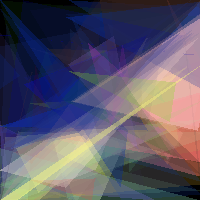
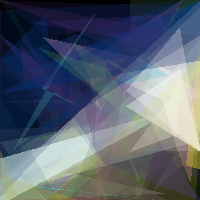
tested

diff --git a/evoart.py b/evoart.py
@@ -9,21 +9,27 @@ import random
 
 import matplotlib
 import matplotlib.pyplot as plt
+
+"""
+REMOVE MATPLOT
+"""
+
 matplotlib.use('TkAgg')
 import numpy as np
 
-
 import evol
 from PIL import ImageChops
-from PIL import Image, ImageDraw
-from evol import Population, Evolution
-
+from PIL import Image,ImageDraw
+from evol import Population,Evolution
 
 SIDES = 3
-POLYGON_COUNT = 200
-INIT_SIGMA = 125
-DECAY_RATE = 0.05
+POLYGON_COUNT = 100
+INIT_SIGMA = 120
+DECAY_RATE = 0.1
 CURRENT_GEN = 0
+
+# 796 sigma 10 decay 0.1 100 poly
+# 805 120 sigma decay 0.1
 
 MAX = 255 * 200 * 200
 TARGET = Image.open("6b.png")
@@ -32,43 +38,44 @@ TARGET.load()  # read image and close the file
 
 def evaluate(solution):
     image = draw(solution)
-    diff = ImageChops.difference(image, TARGET)
+    diff = ImageChops.difference(image,TARGET)
     hist = diff.convert("L").histogram()
-    count = sum(i * n for i, n in enumerate(hist))
+    count = sum(i * n for i,n in enumerate(hist))
     return (MAX - count) / MAX
 
-def make_polygon():
 
-  r = random.randrange(0,256)
-  g = random.randrange(0,256)
-  b = random.randrange(0,256)
-  a = random.randrange(30,60)
+def make_polygon(SIDES):
+    r = random.randrange(0,256)
+    g = random.randrange(0,256)
+    b = random.randrange(0,256)
+    a = random.randrange(30,60)
 
+    coords = [(random.randrange(11,189),random.randrange(11,189)) for _ in range(SIDES)]
 
-  coords = [(random.randrange(11,189),random.randrange(11,189)) for _ in range (SIDES)]
-
-
-  return[(r,g,b,a)]+ coords
-  #return[(r,g,b,a),(x1,y1), (x2,y2), (x3,y3),(x4,y4) ]
-
+    return [(r,g,b,a)] + coords
+    # return[(r,g,b,a),(x1,y1), (x2,y2), (x3,y3),(x4,y4) ]
 
 
 def initialise():
-  return [make_polygon() for i in range(POLYGON_COUNT)]
+    return [make_polygon(SIDES) for i in range(POLYGON_COUNT)]
 
 
-
-
-def evolve(population, args, cxp=0.5, mutp=0.5):
+def evolve(population,args,cxp=0.5,mutp=0.5):
     population.survive(fraction=0.5)
-    population.breed(parent_picker=select, combiner=combine)
-    population.mutate(mutate_function=mutate, rate=0.185)
-    #CHANGE MUTATE rate depending on fitness being up or down
+    population.breed(parent_picker=select,combiner=combine)
+    population.mutate(mutate_function=mutate,rate=0.7)
+
+    # CHANGE MUTATE rate depending on fitness being up or down
     return population
+
+
+
+
+
 
 def roulette_selection(population):
     total_fitness = sum(individual.fitness for individual in population)
-    selection_point = random.uniform(0, total_fitness)
+    selection_point = random.uniform(0,total_fitness)
     cumulative_fitness = 0
     for individual in population:
         cumulative_fitness += individual.fitness
@@ -77,95 +84,114 @@ def roulette_selection(population):
 
 
 def select(population):
-  #print("selected")
-  return [random.choice(population) for i in range(2)]
-  #return [roulette_selection(population) for _ in range(2)]
+    # print("selected")
+    # return [random.choice(population) for i in range(2)]
+    return [roulette_selection(population) for _ in range(2)]
+
+
 
 
 
 def combine(*parents):
-  #print("combined")
-  return [a if random.random() < 0.7 else b for a, b in zip(*parents)]
+    # print("combined")
+    return [a if random.random() < 0.7 else b for a,b in zip(*parents)]
 
 
-
-def updated_std_dev(init_std_dev, generation, total_generations):
+def updated_std_dev(init_std_dev,generation,total_generations):
     return init_std_dev * (1 - generation / total_generations)
 
-def mutate(solution, rate):
-  global INIT_SIGMA, DECAY_RATE, CURRENT_GEN
-  solution = list(solution)
 
-  current_sigma = INIT_SIGMA / math.log(CURRENT_GEN + 3, 3)
+def mutate(solution,rate):
+    global INIT_SIGMA,DECAY_RATE,CURRENT_GEN
+    solution = list(solution)
 
-  #len solution < max poly count and random.rand < p:
-  if random.random() < 0.3:
-      solution.append(make_polygon())
-      return solution
-  #generate new polys
+    current_sigma = INIT_SIGMA / math.log(CURRENT_GEN + 3,3)
 
-  if random.random() < 0.5:
-    # mutate points
-    i = random.randrange(len(solution))
-    polygon = list(solution[i])
-    coords = [x for point in polygon[1:] for x in point]
-    coords = [x + random.uniform(-0.5, 0.5) if random.random() > rate else x for x in coords]
-    #coords = [x if random.random() > rate else
-           #   x + random.normalvariate(0,current_sigma) for x in coords]
+    # len solution < max poly count and random.rand < p:
+    if random.random() < 0.3:
+        SIDES = random.choice([3,4,5,6])
+        solution.append(make_polygon(SIDES))
+        return solution
+    # generate new polys
 
+    if random.random() < 0.5:
+        # mutate points
+        i = random.randrange(len(solution))
+        polygon = list(solution[i])
+        coords = [x for point in polygon[1:] for x in point]
+        coords = [x + random.uniform(-0.5,0.5) if random.random() > rate else x for x in coords]
+        coords = [x if random.random() > rate else
+                  x + random.normalvariate(0,current_sigma) for x in coords]
 
-    coords = [max(0, min(int(x), 200)) for x in coords]
-    polygon[1:] = list(zip(coords[::2], coords[1::2]))
-    solution[i] = polygon
+        coords = [max(0,min(int(x),200)) for x in coords]
+        polygon[1:] = list(zip(coords[::2],coords[1::2]))
+        solution[i] = polygon
 
-  if random.random() < 0.2:
-      i = random.randrange(len(solution))
-      polygon = list(solution[i])
-      colors = [x for color in polygon[1:] for x in color]
-      colors = [x if random.random() > rate else
-                x + random.normalvariate(0,10) for x in colors]
-      colors = [max(0, min(int(x), 255)) for x in colors]
-      polygon[1:] = list(zip(colors[::2], colors[1::2]))
-      solution[i] = polygon
+    if random.random() < 0.2:
+        i = random.randrange(len(solution))
+        polygon = list(solution[i])
+        colors = [x for color in polygon[1:] for x in color]
+        colors = [x if random.random() > rate else
+                  x + random.normalvariate(0,current_sigma) for x in colors]
+        colors = [max(0,min(int(x),255)) for x in colors]
+        polygon[1:] = list(zip(colors[::2],colors[1::2]))
+        solution[i] = polygon
 
+    if random.random() < 0.3:
+        i = random.randrange(len(solution))
+        polygon = list(solution[i])
+        alpha = polygon[0][3] + random.normalvariate(0,current_sigma) if random.random() > rate else polygon[0][3]
+        alpha = max(30,min(int(alpha),60))
+        polygon[0] = tuple(list(polygon[0])[:3] + [alpha])
+        solution[i] = polygon
 
+    else:
+        # reorder polygons
+        random.shuffle(solution)
 
-
-#if random.random() < 0.2:
-   #   for _ in range(random.randint(1, len(solution) // 2)):
-  else:
-    # reorder polygons
-    random.shuffle(solution)
-
-
-  return solution
+    return solution
 
 
 def draw(solution):
-  image = Image.new("RGB", (200, 200))
-  canvas = ImageDraw.Draw(image, "RGBA")
-  for polygon in solution:
-    canvas.polygon(polygon[1:], fill=polygon[0])
+    image = Image.new("RGB",(200,200))
+    canvas = ImageDraw.Draw(image,"RGBA")
+    for polygon in solution:
+        canvas.polygon(polygon[1:],fill=polygon[0])
 
-
-
-  return image
+    return image
 
 
 # Generate values for generations
-generations = np.arange(1, 100)
+generations = np.arange(1,100)
 sigma_values = INIT_SIGMA / np.log(generations + 2)
 
-def plot_graph(generations, sigma_values):
 
-    plt.plot(generations, sigma_values)
+def plot_graph(generations,sigma_values):
+    plt.plot(generations,sigma_values)
     plt.xlabel('Generation')
     plt.ylabel('Current Sigma')
     plt.title('Decay of Sigma over Generations')
     plt.grid(True)
     plt.show()
 
+# plot_graph(generations,sigma_values)
+def elitism(population,elite_percentage):
+    # Sort individuals by fitness (descending order)
+    sorted_population = sorted(population,key=lambda x: x.fitness,reverse=True)
 
+    # Calculate the number of elites
+    num_elites = int(len(population) * elite_percentage)
 
+    # Select elites
+    elites = sorted_population[:num_elites]
 
-plot_graph(generations,sigma_values)
+    # Copy elites to the next generation
+    next_generation = elites[:]
+
+    # Generate offspring for the remaining slots
+    while len(next_generation) < len(population):
+        # Perform genetic operations (mutation, crossover) to generate offspring
+        offspring = generate_offspring()
+        next_generation.append(offspring)
+
+    return next_generation
